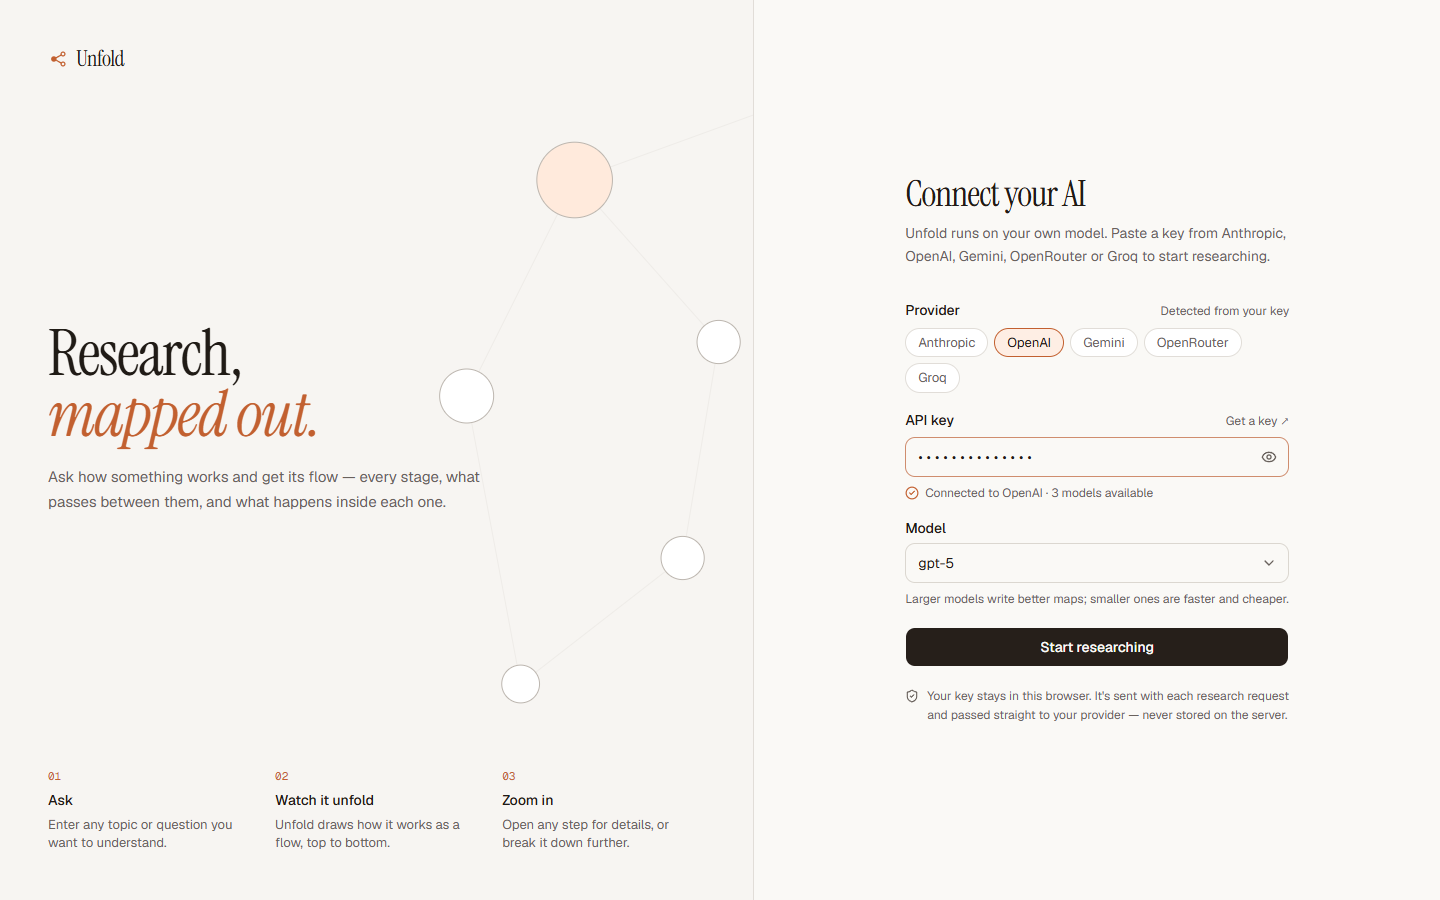
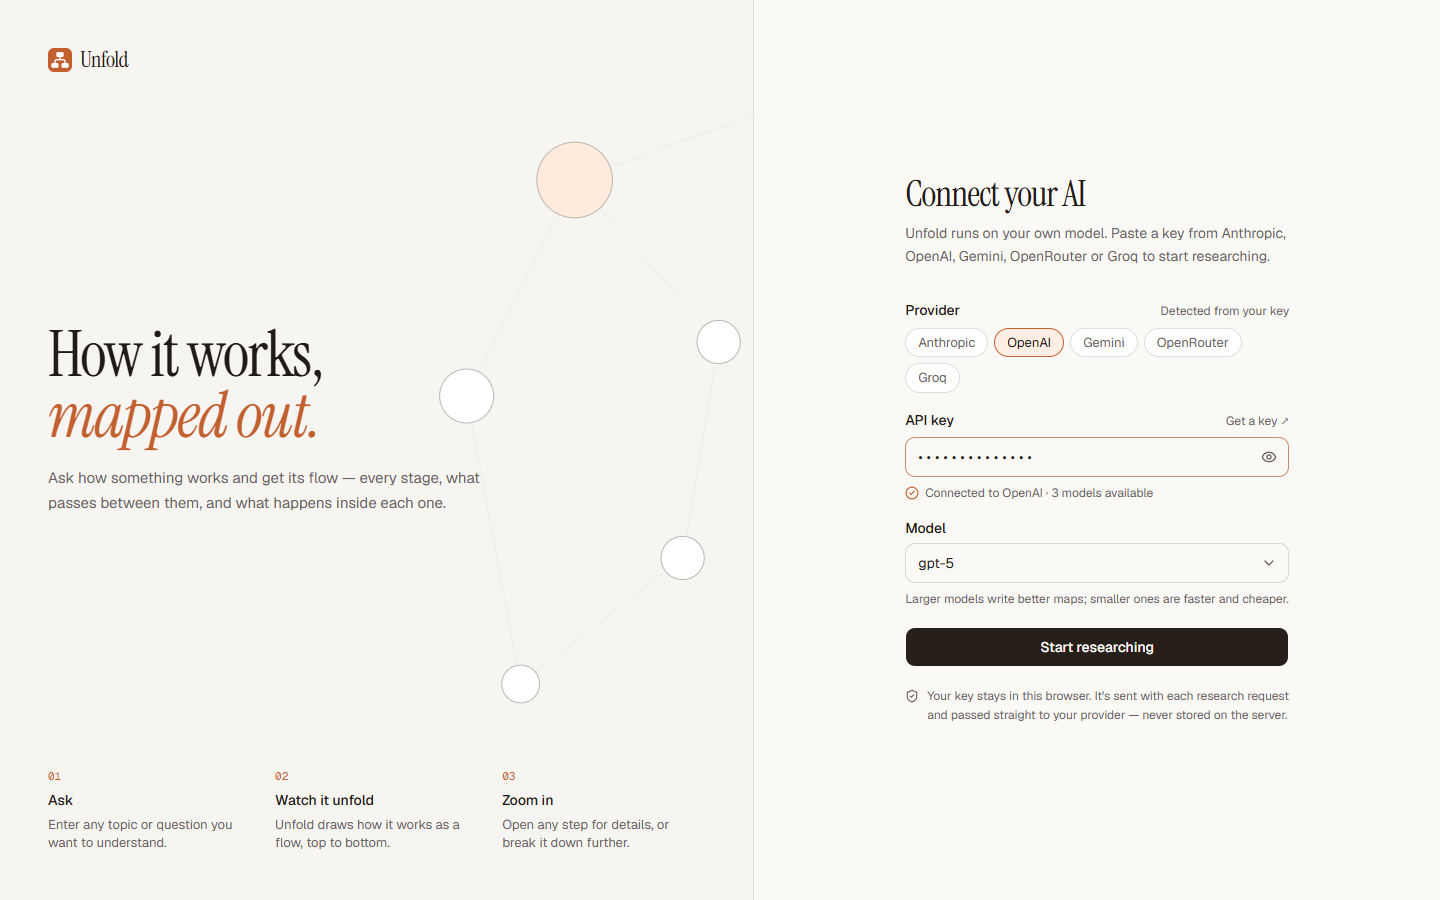
docs: refresh README and screenshots

Changed region(s): [[0.0312, 0.3733, 0.2188, 0.4978], [0.0312, 0.5289, 0.3125, 0.56], [0.0312, 0.0311, 0.0938, 0.0933]]

diff --git a/README.md b/README.md
@@ -1,8 +1,14 @@
-# Unfold
+<p align="center">
+  <img src="app/icon.svg" width="72" height="72" alt="Unfold logo">
+</p>
 
-**Ask how something works. Get the flow.**
+<h1 align="center">Unfold</h1>
 
-Unfold turns questions like *"How does LangChain work?"* or *"How does Kubernetes schedule a pod?"* into an interactive flow diagram. Each step is a stage or component, each arrow is labelled with what passes along it, and the whole thing reads top to bottom. Click any step to see what it receives, what it hands off and how it works. You can also break a step down into its own sub-flow.
+<p align="center"><strong>Ask how something works. Get the flow.</strong></p>
+
+Unfold turns questions like _"How does LangChain work?"_ or _"How does Kubernetes schedule a pod?"_ into an interactive flow diagram. Each step is a stage or component, each arrow is labelled with what passes along it, and the whole thing reads top to bottom. Click any step to see what it receives, what it hands off and how it works. You can also break a step down into its own sub-flow.
+
+It runs on your own AI key: no account and no sign-up.
 
 ![A LangChain flow in Unfold, with the Retriever step broken down into its own sub-flow](docs/screenshots/flow.png)
 
@@ -21,36 +27,14 @@ Unfold gives you that picture directly:
 
 ## Features
 
-| | |
-|---|---|
-| **Flow diagrams** | Steps are typed as Start, Step, Decision, Store, External or Result, laid out top to bottom with labelled arrows. |
-| **Break down any step** | Generates what happens inside a step as a boxed sub-flow beside it. Breakdowns can be nested and collapsed. |
-| **Step details** | What the step receives and hands off (click to jump to that step), how it works, and key points. |
-| **Bring your own AI** | Works with Anthropic, OpenAI, Gemini, OpenRouter or Groq. Paste a key, and Unfold detects the provider and lists the models the key can use. |
-| **Optional web sources** | With a Tavily key on the server, a toggle searches the web first and cites sources on each step. |
-| **Saved locally** | Canvases autosave in the browser. You can rename, delete and reopen them, and research keeps running if you leave the page. |
-| **Canvas tools** | Pan, zoom, fit to view, minimap, drag to rearrange, and **Tidy layout** to reset the arrangement. |
-
-<table>
-  <tr>
-    <td><img src="docs/screenshots/home.png" alt="Home screen with prompt and example questions"></td>
-    <td><img src="docs/screenshots/step-details.png" alt="Step details panel showing inputs and outputs"></td>
-  </tr>
-  <tr>
-    <td align="center"><sub>Ask a question</sub></td>
-    <td align="center"><sub>Inspect a step</sub></td>
-  </tr>
-  <tr>
-    <td><img src="docs/screenshots/breakdown.png" alt="A step broken down into a sub-flow"></td>
-    <td><img src="docs/screenshots/connect.png" alt="Connecting an AI provider key"></td>
-  </tr>
-  <tr>
-    <td align="center"><sub>Break a step down</sub></td>
-    <td align="center"><sub>Connect any provider</sub></td>
-  </tr>
-</table>
-
-<sub>Screenshots use sample data.</sub>
+|                         |                                                                                                                                              |
+| ----------------------- | -------------------------------------------------------------------------------------------------------------------------------------------- |
+| **Flow diagrams**       | Steps are typed as Start, Step, Decision, Store, External or Result, laid out top to bottom with labelled arrows.                            |
+| **Break down any step** | Generates what happens inside a step as a boxed sub-flow beside it. Breakdowns can be nested and collapsed.                                  |
+| **Step details**        | What the step receives and hands off (click to jump to that step), how it works, and key points.                                             |
+| **Bring your own AI**   | Works with Anthropic, OpenAI, Gemini, OpenRouter or Groq. Paste a key, and Unfold detects the provider and lists the models the key can use. |
+| **Saved locally**       | Canvases autosave in the browser. You can rename, delete and reopen them, and research keeps running if you leave the page.                  |
+| **Canvas tools**        | Pan, zoom, fit to view, minimap, drag to rearrange, and **Tidy layout** to reset the arrangement.                                            |
 
 ---
 
@@ -59,29 +43,22 @@ Unfold gives you that picture directly:
 **Requirements:** Node.js 20.9 or later, and an API key from any supported provider.
 
 ```bash
-git clone <your-repo-url> unfold
+git clone https://github.com/aviralj02/unfold
 cd unfold
 npm install
 npm run dev
 ```
 
-Open [http://localhost:3000](http://localhost:3000), paste your AI key and pick a model, then ask *"How does ___ work?"*
+Open [http://localhost:3000](http://localhost:3000), paste your AI key and pick a model, then ask _"How does \_\_\_ work?"_
 
-### Optional: web sources
+### Environment variables
 
-To let users ground flows in live web results, add a [Tavily](https://app.tavily.com) key:
+Both are optional. Copy `.env.example` to `.env.local` to set them.
 
-```bash
-cp .env.example .env.local
-# then set TAVILY_API_KEY=tvly-...
-```
-
-Restart the dev server and a **Web sources** toggle appears on the home screen. It's off by default.
-
-| Web sources | Speed | Best for |
-|---|---|---|
-| Off (default) | ~10–40s | Established tech and processes the model already knows well |
-| On | ~20–60s | New releases, niche tools, or when you want cited links |
+| Variable               | Purpose                                                                                                           |
+| ---------------------- | ----------------------------------------------------------------------------------------------------------------- |
+| `NEXT_PUBLIC_SITE_URL` | Your public URL, used for canonical links, the social preview image and the sitemap. It's read at **build** time. |
+| `TAVILY_API_KEY`       | Adds a **Web sources** toggle that searches the web first and cites sources on each step.                         |
 
 ---
 
@@ -89,15 +66,15 @@ Restart the dev server and a **Web sources** toggle appears on the home screen. 
 
 Unfold detects the provider from the key prefix. You can also pick it manually.
 
-| Provider | Key looks like | Notes |
-|---|---|---|
-| Anthropic | `sk-ant-…` | Defaults to Claude Opus 5 when available |
-| OpenAI | `sk-…` | Chat models only; audio, image and embedding models are filtered out |
-| Gemini | `AIza…` | Google AI Studio key |
-| OpenRouter | `sk-or-…` | Any text model on OpenRouter; type to search the list |
-| Groq | `gsk_…` | Fast open-weight models |
+| Provider   | Key looks like | Notes                                    |
+| ---------- | -------------- | ---------------------------------------- |
+| Anthropic  | `sk-ant-…`     | Defaults to Claude Opus 5 when available |
+| OpenAI     | `sk-…`         | Chat models only                         |
+| Gemini     | `AIza…`        | Google AI Studio key                     |
+| OpenRouter | `sk-or-…`      | Any text model; type to search the list  |
+| Groq       | `gsk_…`        | Fast open-weight models                  |
 
-**Your key stays in your browser.** It's kept in `localStorage`, sent with each request over your connection to the Unfold server, and forwarded directly to the provider. The server never logs or stores it.
+**Your key stays in your browser.** It's kept in `localStorage`, sent with each request to the Unfold server, and forwarded directly to the provider. The server never logs or stores it.
 
 ---
 
@@ -106,14 +83,12 @@ Unfold detects the provider from the key prefix. You can also pick it manually.
 ```
 Question ──► POST /api/research ──► LangGraph workflow ──► streamed NDJSON ──► React Flow canvas
                                      │
-                                     ├─ [plan → search]   only with web sources on
-                                     ├─ generate          LLM draws steps + labelled links
-                                     └─ validate          links must hit real steps,
-                                                          disconnected steps dropped,
-                                                          one retry if the flow falls apart
+                                     ├─ generate   LLM draws steps + labelled links
+                                     └─ validate   links must hit real steps,
+                                                   disconnected steps dropped,
+                                                   one retry if the flow falls apart
 ```
 
-- **Grounded links only:** with web sources on, a step can cite sources only by number, and only URLs actually returned by search are attached. The model can't invent URLs.
 - **Works across providers:** each provider's native structured output is tried first (JSON schema or tool calling). Models without it fall back to JSON-only prompting, validated with Zod.
 - **Breakdowns** reuse the same workflow, with the step's inputs and outputs as context.
 - **Layout** is computed with [dagre](https://github.com/dagrejs/dagre) and runs top to bottom. Sub-flows are placed beside their parent step without overlapping anything.
@@ -124,85 +99,64 @@ See **[FLOW.md](FLOW.md)** for the full walkthrough: every stage, data shape and
 
 ## Tips
 
-- **Phrase it as a process:** *"How does X work?"*, *"What happens when…"* and *"Walk me through…"* give the best flows. *"What is X?"* still works, but you'll get how X is used.
+- **Phrase it as a process:** _"How does X work?"_, _"What happens when…"_ and _"Walk me through…"_ give the best flows.
 - **Break down the step you're curious about** instead of asking a broader question.
 - **Tidy layout** re-arranges the canvas after you've dragged things around.
 
-| Shortcut | Action |
-|---|---|
-| `Ctrl/⌘ + S` | Save now |
-| `F` | Fit to view |
-| `+` / `-` | Zoom |
-| `Esc` | Close the details panel |
-| `Tab`, then `Enter` | Move between steps and select |
+| Shortcut     | Action                  |
+| ------------ | ----------------------- |
+| `Ctrl/⌘ + S` | Save now                |
+| `F`          | Fit to view             |
+| `+` / `-`    | Zoom                    |
+| `Esc`        | Close the details panel |
 
 ---
 
 ## Tech stack
 
-| Layer | Choice |
-|---|---|
-| Framework | [Next.js 16](https://nextjs.org) (App Router, TypeScript) |
-| UI | [Tailwind CSS 4](https://tailwindcss.com), [shadcn/ui](https://ui.shadcn.com) (Base UI), [Framer Motion](https://motion.dev), [Lucide](https://lucide.dev) |
-| Canvas | [React Flow](https://reactflow.dev) (`@xyflow/react`) + [dagre](https://github.com/dagrejs/dagre) |
-| AI orchestration | [LangChain.js](https://js.langchain.com) + [LangGraph.js](https://langchain-ai.github.io/langgraphjs/) |
-| Providers | `@langchain/anthropic`, `@langchain/openai` (also OpenRouter and Groq), `@langchain/google-genai` |
-| Search (optional) | [Tavily](https://tavily.com) |
-| Persistence | Browser `localStorage` |
+| Layer       | Choice                                                                                                                                           |
+| ----------- | ------------------------------------------------------------------------------------------------------------------------------------------------ |
+| Framework   | [Next.js 16](https://nextjs.org) (App Router, TypeScript)                                                                                        |
+| UI          | [Tailwind CSS 4](https://tailwindcss.com), [shadcn/ui](https://ui.shadcn.com), [Framer Motion](https://motion.dev), [Lucide](https://lucide.dev) |
+| Canvas      | [React Flow](https://reactflow.dev) + [dagre](https://github.com/dagrejs/dagre)                                                                  |
+| AI          | [LangChain.js](https://js.langchain.com) + [LangGraph.js](https://langchain-ai.github.io/langgraphjs/)                                           |
+| Persistence | Browser `localStorage`                                                                                                                           |
 
 ## Project structure
 
 ```
 app/
-  page.tsx                   Home: prompt, web-sources toggle, examples, recent canvases
-  canvas/[id]/page.tsx       Workspace: progress, error, or canvas
+  page.tsx                   Home: prompt, examples, recent canvases
+  canvas/[id]/               Workspace: progress, error, or canvas
   api/research/route.ts      Streaming research endpoint
   api/keys/verify/route.ts   Key check and model list
-  api/config/route.ts        Reports whether web search is available
+  icon.svg, opengraph-image.tsx, apple-icon.tsx, manifest.ts, robots.ts, sitemap.ts
 components/
   key-gate.tsx, key-form.tsx Onboarding and settings (bring your own key)
   app-sidebar.tsx            Canvas list, rename and delete
   canvas/                    Step cards, sub-flow groups, arrow edges, detail panel, controls
   workspace/                 Header, progress, error states
 lib/
-  ai/                        LangGraph workflow, prompts, model factory, structured output, search
+  ai/                        LangGraph workflow, prompts, model factory, structured output
   layout.ts                  dagre layout, sub-flow placement, tidy
   providers.ts               Provider list and key detection
+  site.ts                    Name, description and URL for metadata
   storage.ts                 localStorage stores for settings and canvases
-  types.ts                   Data model
-docs/screenshots/            README images
 ```
 
 ## Scripts
 
-| Command | What it does |
-|---|---|
-| `npm run dev` | Start the dev server on port 3000 |
+| Command         | What it does                       |
+| --------------- | ---------------------------------- |
+| `npm run dev`   | Start the dev server on port 3000  |
 | `npm run build` | Production build (type-checks too) |
-| `npm run start` | Serve the production build |
-| `npm run lint` | ESLint |
-
----
+| `npm run start` | Serve the production build         |
+| `npm run lint`  | ESLint                             |
 
 ## Deploying
 
-Unfold is a standard Next.js app and runs anywhere Next.js does. Check these first:
+Unfold is a standard Next.js app and runs anywhere Next.js does, including Vercel and Netlify.
 
 - **Serve over HTTPS.** Users' AI keys travel in request headers.
-- **Allow long requests.** `/api/research` streams for up to about 2 minutes (`maxDuration = 120`), so your host's function time limit must be at least that.
-- **Protect your Tavily key if you enable it.** Anyone who can reach your deployment and has any working AI key can trigger web searches that use your Tavily credits. Before a public launch, add rate limiting or authentication, or leave `TAVILY_API_KEY` unset.
-
-## Limitations
-
-- **Flows are AI-generated** and can be wrong or oversimplified. Check anything important, or turn on web sources for cited links.
-- **Canvases live in one browser.** There are no accounts or sync yet, and clearing site data deletes them.
-- **Canvases from the earlier concept-map version** need regenerating. Unfold offers this when you open one.
-- **No export or sharing yet.**
-
-## Roadmap
-
-- Export as PNG, SVG or Markdown
-- Shareable read-only links
-- Accounts and cloud sync
-- Search within a canvas
-- Rate limiting for hosted deployments
+- **Allow requests of up to 2 minutes.** `/api/research` streams for up to about 2 minutes.
+- **Set `NEXT_PUBLIC_SITE_URL` before building** so social previews and the sitemap point at your domain. On Vercel, the production URL is picked up automatically.
